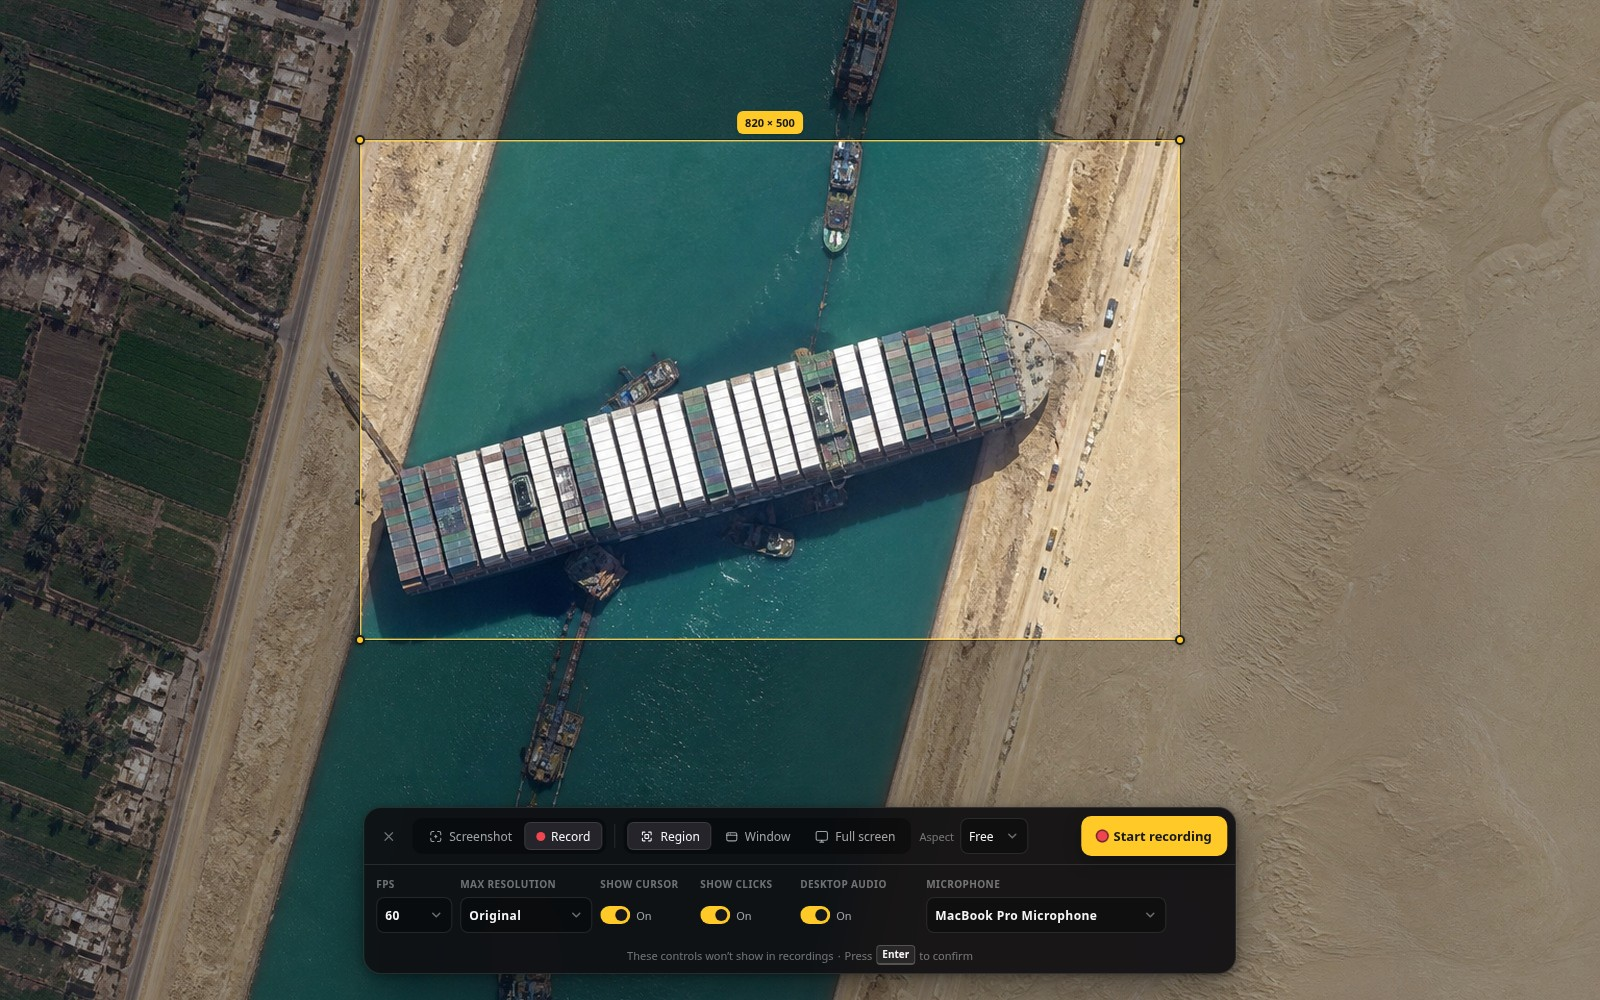
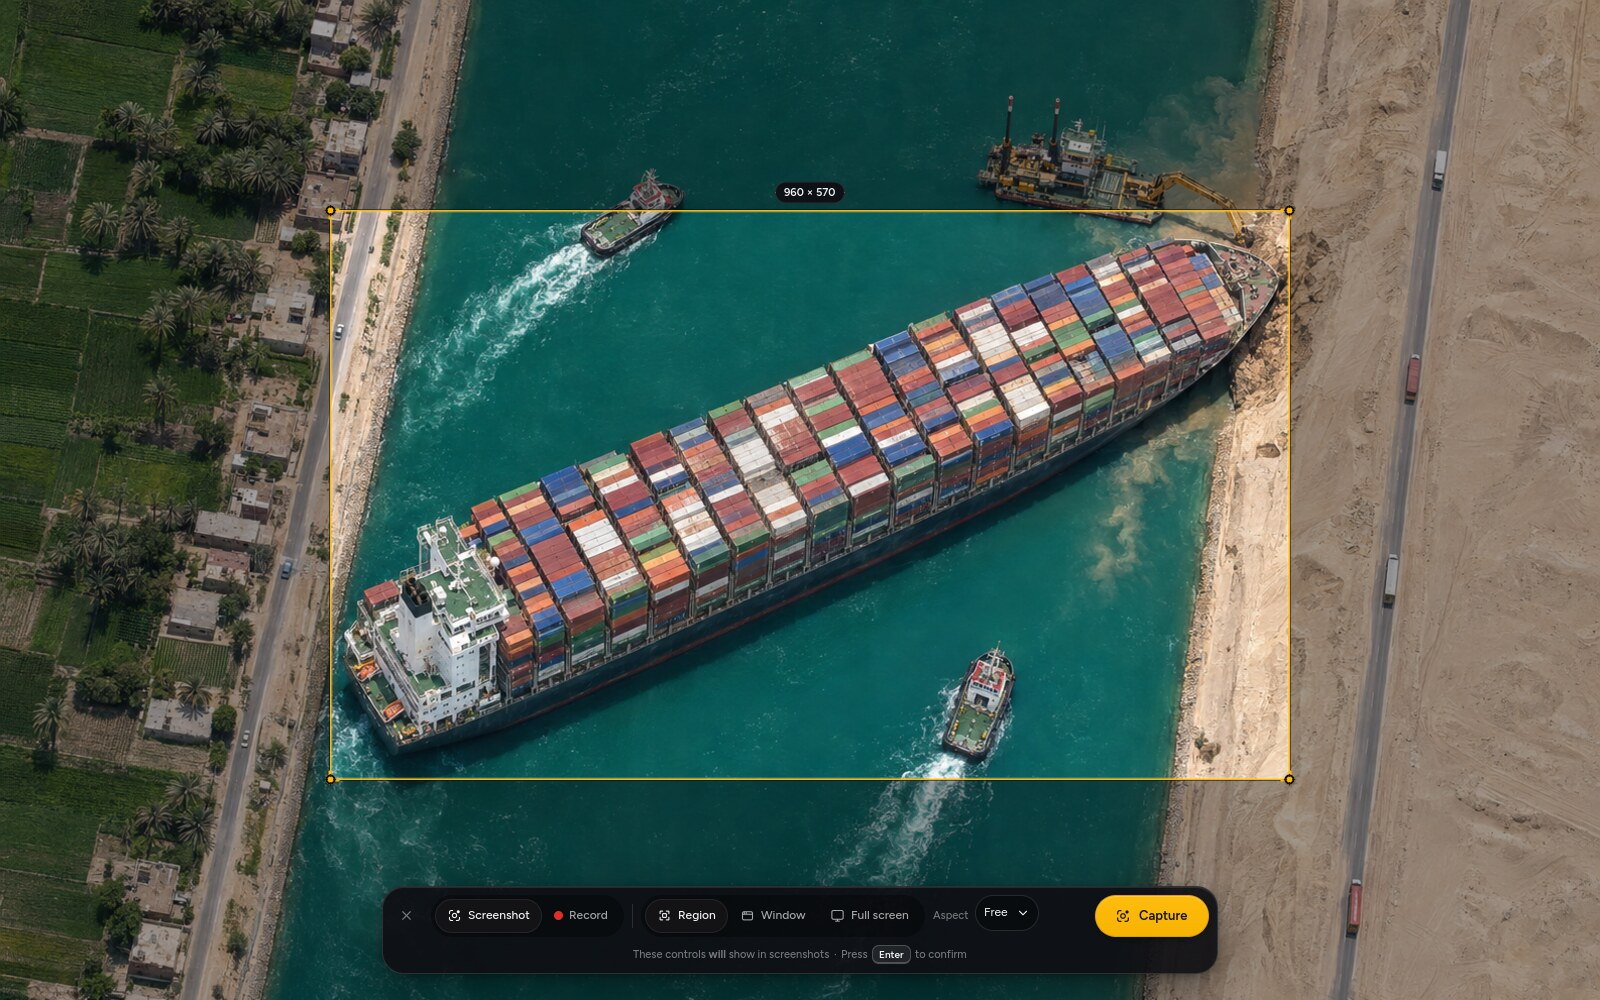
Refresh README and homepage product stills from the native app
The gallery stills predated the native app's capture bar, editor and
Preferences. All five are now real frames from the GTK host (dark, mustard),
over generated stand-in photos that keep the old jokes: a container ship
wedged in a canal, the Choke point editor with a tiger and a hanging ship,
a collapsed mini-preview stack, a totality trim with crop, and Preferences.
Alt text follows the new pictures; the collapsed stack is now 340 x 360.

Verified: npm run check; productShots tests (JPEG sizes and README order);
the homepage gallery rendered in Chromium from the production build.

Amp-Thread-ID: https://ampcode.com/threads/T-01a21f12-7b3d-74f5-bea2-1ff8cdee878f

diff --git a/apps/web/src/productShots.ts b/apps/web/src/productShots.ts
@@ -11,7 +11,7 @@ export const PRODUCT_SHOTS = [
     height: 1000,
     title: "Capture what you need",
     description: "A region, a window, or a full display. Screenshot or record from the same menu.",
-    alt: "Captures region recording over an aerial satellite view of the Ever Given in the Suez Canal, with a highlighted box and the full Record menu showing Start recording",
+    alt: "Captures New Capture bar in Screenshot mode with a region drawn over an aerial view of a container ship wedged across a canal",
   },
   {
     id: "screenshot-editor",
@@ -20,16 +20,16 @@ export const PRODUCT_SHOTS = [
     height: 900,
     title: "Edit right away",
     description: "Annotate screenshots with text, arrows, shapes, and crops.",
-    alt: "Captures screenshot editor with the Suez Canal, a Choke point label, a tiger on the left bank, and an Evergreen ship hanging off the right edge with an Expand canvas button",
+    alt: "Captures screenshot editor with a desert canal, a Choke point label and arrow, a tiger on the left bank, and a container ship hanging off the right edge with an Expand canvas button",
   },
   {
     id: "collapsed-mini-previews",
     file: "collapsed-mini-previews.jpg",
-    width: 719,
-    height: 825,
+    width: 340,
+    height: 360,
     title: "Keep captures handy",
     description: "Collapse recent captures into a compact corner stack until you need them.",
-    alt: "Captures mini preview cards naturally layered into a compact stack over a photo",
+    alt: "Captures mini preview cards collapsed into a compact corner stack, with the container ship capture on top",
   },
   {
     id: "video-editor",

diff --git a/README.md b/README.md
@@ -12,19 +12,19 @@ A cross-platform screen capture utility for macOS, Windows, and Linux.
 <table>
   <tr>
     <td width="50%">
-      <img src="docs/images/capture-selection.jpg" alt="Captures region recording over an aerial satellite view of the Ever Given in the Suez Canal, with a highlighted box and the full Record menu showing Start recording" width="100%">
+      <img src="docs/images/capture-selection.jpg" alt="Captures New Capture bar in Screenshot mode with a region drawn over an aerial view of a container ship wedged across a canal" width="100%">
       <br>
       <sub><strong>Capture what you need</strong> · A region, a window, or a full display. Screenshot or record from the same menu.</sub>
     </td>
     <td width="50%">
-      <img src="docs/images/screenshot-editor.jpg" alt="Captures screenshot editor with the Suez Canal, a Choke point label, a tiger on the left bank, and an Evergreen ship hanging off the right edge with an Expand canvas button" width="100%">
+      <img src="docs/images/screenshot-editor.jpg" alt="Captures screenshot editor with a desert canal, a Choke point label and arrow, a tiger on the left bank, and a container ship hanging off the right edge with an Expand canvas button" width="100%">
       <br>
       <sub><strong>Edit right away</strong> · Annotate screenshots with text, arrows, shapes, and crops.</sub>
     </td>
   </tr>
   <tr>
     <td width="50%">
-      <img src="docs/images/collapsed-mini-previews.jpg" alt="Captures mini preview cards naturally layered into a compact stack over a photo" width="100%">
+      <img src="docs/images/collapsed-mini-previews.jpg" alt="Captures mini preview cards collapsed into a compact corner stack, with the container ship capture on top" width="100%">
       <br>
       <sub><strong>Keep captures handy</strong> · Collapse recent captures into a compact corner stack until you need them.</sub>
     </td>
